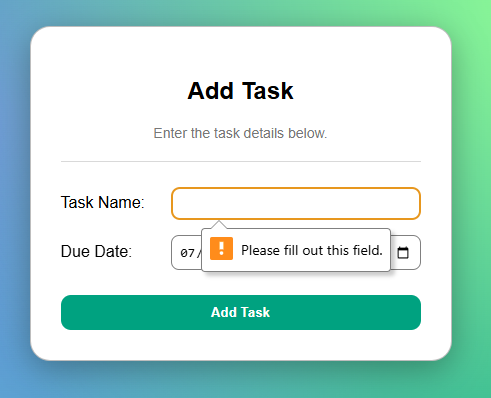
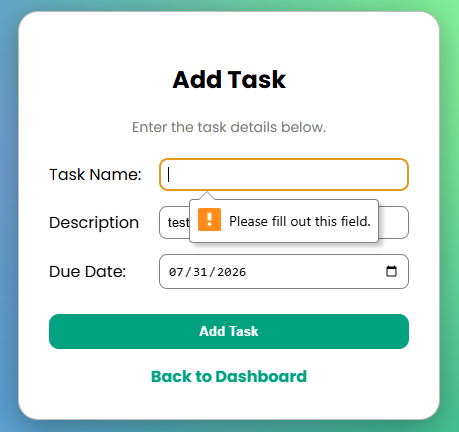
Update validation scenarios

diff --git a/task_manager_app/docs/validation_scenarios.md b/task_manager_app/docs/validation_scenarios.md
@@ -1,124 +1,175 @@
 # Validation Scenarios
 
-## Scenario 1: Login with Incorrect Password
+## Scenario 1: Create a New User Account
+
+
+## Scenario 2: Login with Incorrect Password
+
+**Precondition:**  
+No user is currently logged in.
 
 **Goal:** Confirm that the application prevents access when an incorrect password is entered.
 
 **Steps:**
-1. Open the login page.
-2. Enter a valid email.
-3. Enter an incorrect password.
-4. Click the Login button.
+1. Open the application.
+2. Verify that the application redirects to the Login page.
+3. Enter the email address of a registered user.
+4. Enter an incorrect password.
+5. Click the **Login** button.
 
 **Expected Result:**  
-The user is not logged in, and an error message is displayed indicating that the credentials are invalid.
+The application should reject the login attempt, display an error message indicating that the credentials are invalid, and remain on the Login page.
 
 **Actual Result:**  
-The application rejected the login attempt and displayed an error message.
+The application rejected the login attempt, displayed the invalid credentials message, and did not redirect the user to the Dashboard.
 
 **Observation:**  
-This validates that authentication correctly checks user credentials before granting access.
+This confirms that the authentication process validates the user's password before granting access to the application.
 
 **Screenshot:**  
-![Scenario 1](screenshots/scenario1.png)
+![Login with Incorrect Password](screenshots/scenario2.png)
 
-## Scenario 2: Login with Invalid Username
+## Scenario 3: Login with an Unregistered Email
+
+**Precondition:**  
+No user is currently logged in.
 
 **Goal:**  
-Verify that the application denies access when a user enters an email that is not registered.
+Verify that the application prevents access when a user enters an email address that is not registered.
 
 **Steps:**
-1. Open the login page.
-2. Enter an email address that is not registered.
-3. Enter a valid password.
-4. Click **Login**.
+1. Open the application.
+2. Verify that the application redirects to the Login page.
+3. Enter an email address that is not registered.
+4. Enter any password.
+5. Click the **Login** button.
 
 **Expected Result:**  
-The user is not logged in, and an error message is displayed indicating that the username or password is invalid.
+The application should reject the login attempt, display an error message indicating that the credentials are invalid, and remain on the Login page.
 
 **Actual Result:**  
-The application rejected the login attempt and displayed an error message.
+The application rejected the login attempt, displayed the invalid credentials message, and did not redirect the user to the Dashboard.
 
 **Observation:**  
-The authentication process correctly verifies that the username exists before allowing access.
+This confirms that the authentication process verifies that the email address exists before granting access to the application.
 
 **Screenshot:**  
-![Scenario 2](screenshots/scenario2.png)
+![Login with an Unregistered Email](screenshots/scenario3.png)
 
-## Scenario 3: User Login
+## Scenario 4: User Login
 
-**Goal:** Confirm that a user can log in with valid credentials.
-
-**Steps:**
-1. Open the login page.
-2. Enter a valid email and password.
-3. Click the Login button.
-
-**Expected Result:**  
-The user is redirected to the task page.
-
-**Actual Result:**  
-The login worked correctly and the user was redirected.
-
-**Observation:**  
-This confirms the controller correctly communicates with the database and view.
-
-**Screenshot:**  
-![Scenario 3](screenshots/scenario3.png)
-
-## Scenario 4: Add Task Without a Task Name
+**Precondition:**  
+No user is currently logged in.
 
 **Goal:**  
-Verify that the application prevents users from creating a task when the task name field is left empty.
+Verify that a registered user can successfully log in with valid credentials.
 
 **Steps:**
-1. Open the login page.
-2. Enter valid user credentials.
-3. Click the **Login** button.
-4. Confirm that the application loads the **Home Page**, where the current tasks are displayed.
-5. Click the **Add Task** button/link.
-6. Leave the **Task Name** field empty.
+1. Open the application.
+2. Verify that the application redirects to the Login page.
+3. Enter the email address and password of a registered user.
+4. Click the **Login** button.
+
+**Expected Result:**  
+The application should authenticate the user successfully and redirect the user to the Dashboard page.
+
+**Actual Result:**  
+The application authenticated the user successfully and redirected the user to the Dashboard page.
+
+**Observation:**  
+This confirms that the authentication process validates the user's credentials, retrieves the correct user account, and grants access to the Dashboard.
+
+**Screenshot:**  
+![User Login](screenshots/scenario4.png)
+![User Login](screenshots/scenario4a.png)
+
+## Scenario 5: Add Task with Missing Required Fields
+
+**Precondition:**  
+A user is logged in and is viewing the Dashboard.
+
+**Goal:**  
+Verify that the application prevents users from creating a task when any required field is left empty.
+
+### Test Cases
+
+| Test Case | Empty Field | Result |
+|-----------|-------------|--------|
+| 5.1 | Task Name | Passed |
+| 5.2 | Description | Passed |
+| 5.3 | Due Date | Passed |
+
+**Steps:**
+1. Open the application.
+2. Log in using valid user credentials.
+3. Verify that the application redirects to the Dashboard.
+4. Click the **Add Task** button.
+5. Leave one required field empty.
+6. Complete the remaining fields with valid information.
+7. Click the **Add Task** button.
+
+**Expected Result:**  
+The application should prevent the task from being created and display the browser validation message requesting that the required field be completed.
+
+**Actual Result:**  
+The application prevented the task from being created and displayed the browser validation message **"Please fill out this field."**
+
+**Observation:**  
+This confirms that the application enforces validation for all required fields before allowing a task to be created.
+
+### Screenshots
+
+**5.1 Missing Task Name**
+
+![Scenario 5](screenshots/scenario5.png)
+
+**5.2 Missing Description**
+
+![Scenario 5a](screenshots/scenario5a.png)
+
+**5.3 Missing Due Date**
+
+![Scenario 5b](screenshots/scenario5b.png)
+
+## Scenario 6: Add New Task
+
+**Precondition:**  
+A user is logged in and is viewing the Dashboard.
+
+**Goal:**  
+Verify that a logged-in user can successfully create a new task through the GUI.
+
+**Steps:**
+1. Open the application.
+2. Log in using valid user credentials.
+3. Verify that the application redirects to the Dashboard.
+4. Click the **Add Task** button.
+5. Enter a task name.
+6. Enter a task description.
 7. Enter a valid due date.
 8. Click the **Add Task** button.
 
 **Expected Result:**  
-The application should not create the task and should display a validation message indicating that the task name is required.
+The application should save the new task and redirect the user back to the Dashboard, where the newly created task is displayed in the task list.
 
 **Actual Result:**  
-The application prevented the task from being created and displayed the message **"Task name is required."**
+The application successfully created the task, redirected the user to the Dashboard, and displayed the new task in the task list.
 
 **Observation:**  
-This confirms that the application validates user input before saving a task. It also confirms the GUI flow from the Home Page to the Add Task page works correctly.
+This confirms that the application successfully stores a new task and updates the Dashboard to display the newly created task.
 
-**Screenshot:** 
+### Screenshots
 
-![Add Task Without Name](screenshots/scenario4.png)
+**Task successfully created**
 
-## Scenario 5: Add New Task
+![Add New Task](screenshots/scenario6.png)
 
-**Goal:**  
-Verify that a logged-in user can add a new task through the GUI.
+**New task displayed on the Dashboard**
 
-**Steps:**
-1. Open the login page.
-2. Enter valid user credentials.
-3. Click the **Login** button.
-4. Confirm that the application loads the **Home Page**, where current tasks are displayed.
-5. Click the **Add Task** button/link.
-6. Enter a task name.
-7. Enter a valid due date.
-8. Click the **Add Task** button.
+![Add New Task](screenshots/scenario6a.png)
 
-**Expected Result:**  
-The application should save the task and return the user to the Home Page or display the newly added task in the task list.
+## Scenario 7: Display Tasks for the Logged-in User
 
-**Actual Result:**  
-The task was added successfully and displayed on the Home Page.
+## Scenario 8: Delete Task
 
-**Observation:**  
-This confirms the MVC flow: the View collects the task information, the Controller processes the request, the Model/database stores the task, and the updated task list is shown on the Home Page.
-
-### Screenshot
-
-![Add New Task](screenshots/scenario5.png)
-![Add New Task](screenshots/scenario5a.png)
+## Scenario 9: Logout
